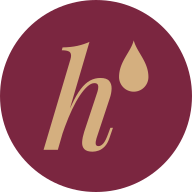
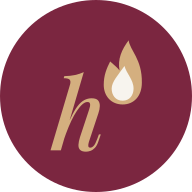
feat(020): replace i-dot drop with minimalist flame
Claude-Session: https://claude.ai/code/session_01HX5XgVZFxR7b2NeVVviFbW

Changed region(s): [[0.2188, 0.2188, 0.7812, 0.8125]]

diff --git a/docs/BRAND.md b/docs/BRAND.md
@@ -27,12 +27,12 @@ Definir criterios para diseñar logo e identidad visual de Humami sin improvisac
 - ¿Es consistente con `docs/project-definition.md`?
 
 ## Logo v1 (aprobado 2026-09-23)
-- **Concepto:** el nombre es la fusión de la *h* (inicial de Hugo) y *umami*. La h va en Playfair Display cursiva y cobre, como una firma, unida sin espacio a "umami" en romana burdeos. El punto de la i es una gota de salsa, del mismo color que la h.
+- **Concepto:** el nombre es la fusión de la *h* (inicial de Hugo) y *umami*. La h va en Playfair Display cursiva y cobre, como una firma, unida sin espacio a "umami" en romana burdeos. El punto de la i es una llama minimalista (dos lenguas de fuego con núcleo más claro), del mismo color que la h.
 - **Archivos:** `humami-web/public/brand/` — SVG con texto convertido a trazos.
-  - `humami-wordmark.svg` — principal, fondos claros (h y gota #B76E41, umami #7B2640).
-  - `humami-wordmark-reverse.svg` — fondos burdeos/oscuros (h y gota #D4AF7F, umami #F7F4EE). Es el de la cabecera web.
-  - `humami-wordmark-mono-dark.svg` / `-mono-light.svg` — una tinta.
-  - `humami-symbol*.svg`, `humami-app-icon.svg`, `favicon.*`, `humami-favicon-*.png` — *h* + gota, solo donde no cabe la palabra.
-- **Usos:** margen libre igual a la altura de la gota; ancho mínimo del wordmark 80 px (20 mm impreso); h y gota siempre del mismo color.
-- **No usos:** no reescribir el logo con la fuente, no ponerlo en mayúsculas, no quitar la gota ni poner la h en romana, no separar la h de "umami", no estirar ni añadir sombras/degradados, no poner gota cobre sobre burdeos.
+  - `humami-wordmark.svg` — principal, fondos claros (h y llama #B76E41 con núcleo #D4AF7F, umami #7B2640).
+  - `humami-wordmark-reverse.svg` — fondos burdeos/oscuros (h y llama #D4AF7F con núcleo #F7F4EE, umami #F7F4EE). Es el de la cabecera web.
+  - `humami-wordmark-mono-dark.svg` / `-mono-light.svg` — una tinta; el núcleo de la llama queda calado.
+  - `humami-symbol*.svg`, `humami-app-icon.svg`, `favicon.*`, `humami-favicon-*.png` — *h* + llama, solo donde no cabe la palabra.
+- **Usos:** margen libre igual a la altura de la llama; ancho mínimo del wordmark 80 px (20 mm impreso); h y llama siempre del mismo color.
+- **No usos:** no reescribir el logo con la fuente, no ponerlo en mayúsculas, no quitar la llama ni poner la h en romana, no separar la h de "umami", no estirar ni añadir sombras/degradados, no poner la llama cobre sobre burdeos.
 - No hay lockup símbolo + nombre: la h ya forma parte de la palabra.

diff --git a/openspec/changes/add-brand-logo-header/proposal.md b/openspec/changes/add-brand-logo-header/proposal.md
@@ -9,7 +9,7 @@ Success metric: the approved reverse wordmark renders in the header on mobile an
 
 ## What Changes
 - Add the approved brand assets to `humami-web/public/brand/` (wordmark variants, symbol, favicon sources) as outlined SVG plus PNG/ICO exports.
-- Replace the text link in `AppHeader` with the reverse wordmark (ivory "umami", soft-gold italic "h" and drop) on the existing `humami-accent-dark` header.
+- Replace the text link in `AppHeader` with the reverse wordmark (ivory "umami", soft-gold italic "h" and flame with ivory core) on the existing `humami-accent-dark` header.
 - Record the logo concept and usage rules in `docs/BRAND.md`.
 
 ## Non-goals
